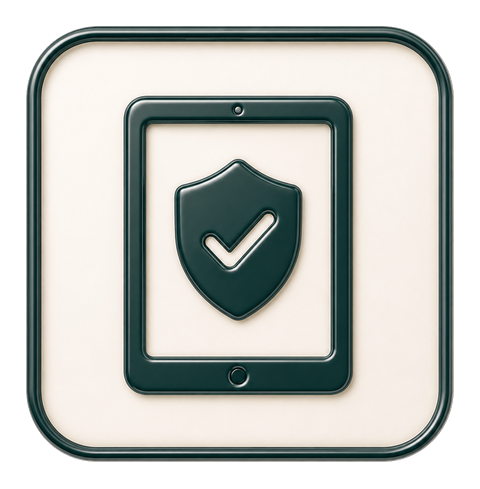
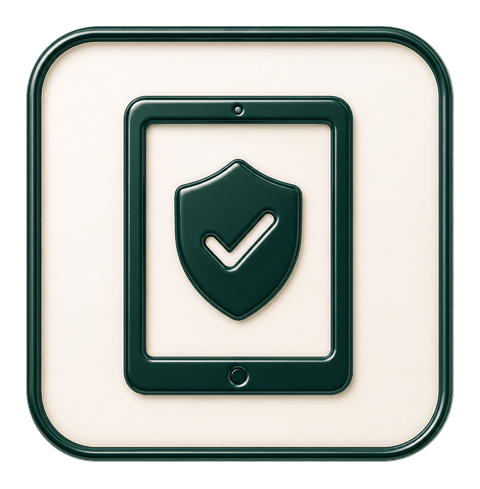
fix(hub): tom do verde corrigido em utensilios-rev e disp-eletronicos — (40,63,62) -> (23,57,51), mediana do conjunto; correcao gradual via pipeline (specular preservado) + auditoria visual com metricas (audit_visual.py)

diff --git a/scratch/imagegen/audit_visual.py b/scratch/imagegen/audit_visual.py
@@ -1,0 +1,87 @@
+# Auditoria de linguagem visual dos pictogramas cerâmicos.
+# Mede por asset: espessura da moldura (4 lados), tom médio do verde
+# (símbolo+moldura), tom do creme do tile, e cobertura do símbolo na
+# área interna. Sinaliza outliers vs a mediana do conjunto.
+import os, statistics
+from PIL import Image
+
+BASE = r"c:\Users\User\Documents\VigilaroCareV6 Neo\assets\illustrations"
+SETS = {
+    "education": os.path.join(BASE, "education-pictograms"),
+    "travel": os.path.join(BASE, "travel-pictograms"),
+}
+# órfãos conhecidos (fora do código) — ignorar
+SKIP = {"pictogram-conceitos-essenciais", "pictogram-cuidados-gestacao",
+        "pictogram-guia-brinquedos", "pictogram-saude-pet",
+        "icone_planta_baixa_ilustrativa (1)"}
+
+def is_dark(p):
+    r, g, b, a = p
+    return a > 200 and r + g + b < 360
+
+def measure(path):
+    img = Image.open(path).convert("RGBA")
+    bb = img.getchannel("A").getbbox()
+    img = img.crop(bb)
+    w, h = img.size
+    px = img.load()
+
+    # espessura da moldura: varre do limite até acabar o escuro, no meio de cada lado
+    def run_len(xs_ys):
+        n = 0
+        for (x, y) in xs_ys:
+            if is_dark(px[x, y]):
+                n += 1
+            elif n > 3:  # já entrou e saiu da moldura
+                break
+        return n
+    cy, cx = h // 2, w // 2
+    f_left  = run_len(((x, cy) for x in range(0, w // 4)))
+    f_right = run_len(((w - 1 - x, cy) for x in range(0, w // 4)))
+    f_top   = run_len(((cx, y) for y in range(0, h // 4)))
+    f_bot   = run_len(((cx, h - 1 - y) for y in range(0, h // 4)))
+    frame = statistics.mean([f_left, f_right, f_top, f_bot]) / w * 100  # % da largura
+
+    # tons: amostra a cada 4px
+    greens, creams = [], []
+    inner0, inner1 = int(w * 0.18), int(w * 0.82)  # área interna (sem moldura)
+    dark_inner = 0
+    inner_total = 0
+    for y in range(0, h, 4):
+        for x in range(0, w, 4):
+            p = px[x, y]
+            if p[3] < 200:
+                continue
+            if is_dark(p):
+                greens.append(p[:3])
+            elif sum(p[:3]) > 600:
+                creams.append(p[:3])
+            if inner0 < x < inner1 and inner0 < y < inner1:
+                inner_total += 1
+                if is_dark(p):
+                    dark_inner += 1
+    g = tuple(int(statistics.mean(c[i] for c in greens)) for i in range(3)) if greens else (0,0,0)
+    c = tuple(int(statistics.mean(c[i] for c in creams)) for i in range(3)) if creams else (0,0,0)
+    sym = dark_inner / inner_total * 100 if inner_total else 0
+    return dict(size=(w, h), frame=frame, green=g, cream=c, symbol=sym)
+
+rows = []
+for set_name, folder in SETS.items():
+    for f in sorted(os.listdir(folder)):
+        name = os.path.splitext(f)[0]
+        if not f.endswith(".png") or name in SKIP:
+            continue
+        m = measure(os.path.join(folder, f))
+        rows.append((set_name, name, m))
+
+frames = [m["frame"] for _, _, m in rows]
+syms = [m["symbol"] for _, _, m in rows]
+med_f, med_s = statistics.median(frames), statistics.median(syms)
+print(f"== {len(rows)} assets | moldura mediana {med_f:.1f}% | simbolo mediano {med_s:.1f}% ==")
+print(f"{'asset':38s} {'moldura%':>8s} {'simb%':>6s} {'verde':>13s} {'creme':>13s} flags")
+for set_name, name, m in rows:
+    flags = []
+    if abs(m["frame"] - med_f) > med_f * 0.45: flags.append("MOLDURA")
+    if abs(m["symbol"] - med_s) > 18: flags.append("SIMBOLO")
+    if m["green"][1] - m["green"][2] > 25 or m["green"][2] - m["green"][1] > 15: flags.append("TOM")
+    print(f"{name:38s} {m['frame']:8.1f} {m['symbol']:6.1f} {str(m['green']):>13s} {str(m['cream']):>13s} {' '.join(flags)}")

diff --git a/scratch/imagegen/fix_tone.py b/scratch/imagegen/fix_tone.py
@@ -1,0 +1,38 @@
+# Correção de tom: escurece o verde de utensilios-rev e disp-eletronicos
+# em direção à mediana do conjunto (22,56,50), preservando specular e creme.
+# Força da correção é gradual pela escuridão do pixel — evita banding na
+# transição corpo-escuro -> highlight.
+import os
+from PIL import Image
+
+SRC = r"c:\Users\User\Documents\VigilaroCareV6 Neo\assets\illustrations\education-pictograms"
+TARGETS = {
+    # nome: média atual do verde (medida na auditoria)
+    "pictogram-utensilios-rev": (40, 63, 62),
+    "pictogram-disp-eletronicos": (39, 65, 64),
+}
+GOAL = (22, 56, 50)  # mediana do conjunto
+
+for name, cur in TARGETS.items():
+    path = os.path.join(SRC, name + ".png")
+    img = Image.open(path).convert("RGBA")
+    px = img.load()
+    w, h = img.size
+    # fatores multiplicativos por canal (aplicados em força total)
+    f = tuple(GOAL[i] / cur[i] for i in range(3))
+    for y in range(h):
+        for x in range(w):
+            r, g, b, a = px[x, y]
+            if a == 0:
+                continue
+            s = r + g + b
+            # força: 1.0 para pixels bem escuros, decai a 0 até s=420
+            if s >= 420:
+                continue
+            strength = min(1.0, (420 - s) / 120)
+            nr = int(r * (1 + (f[0] - 1) * strength))
+            ng = int(g * (1 + (f[1] - 1) * strength))
+            nb = int(b * (1 + (f[2] - 1) * strength))
+            px[x, y] = (nr, ng, nb, a)
+    img.save(path, optimize=True)
+    print(f"{name}: corrigido (fatores {tuple(round(v,2) for v in f)})")
